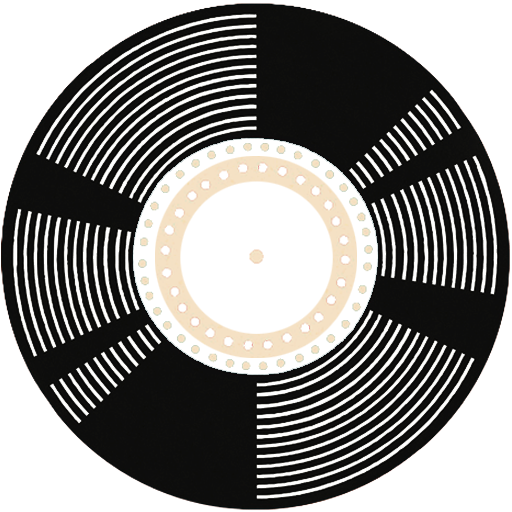
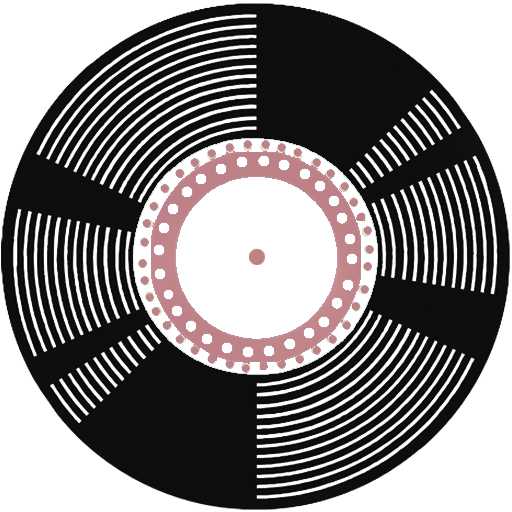
more pretty

Changed region(s): [[0.25, 0.25, 0.75, 0.75], [0.4688, 0.4688, 0.5312, 0.5312]]

diff --git a/display_manager.py b/display_manager.py
@@ -52,11 +52,15 @@ class DisplayManager:
         canvas = Image.alpha_composite(canvas, overlay)
         canvas = canvas.convert("RGB")
 
+        draw = ImageDraw.Draw(canvas)  # recreate draw on the new canvas
+
         ic_color = random.choice(pallette)
         ic_radius = 40
 
         oc_color = random.choice(pallette)
         oc_radius = 62
+
+        # ~~~~~~~~~~~~~~ Vinyl ~~~~~~~~~~~~~~
 
         vinyl_center_x = 333
         vinyl_center_y = self.height // 2
@@ -71,6 +75,11 @@ class DisplayManager:
              vinyl_center_x + ic_radius, vinyl_center_y + ic_radius),
             fill=ic_color)
 
+        draw.ellipse(
+            (vinyl_center_x - 62, vinyl_center_y - 62,
+             vinyl_center_x + 62, vinyl_center_y + 62),
+            fill="white")
+
         vinyl = Image.open("vinyl.png").resize((262, 262)).convert("RGBA")
         vinyl = vinyl.rotate(random.randint(0, 360))
         vinyl_coords = (vinyl_center_x - 131, vinyl_center_y - 131)
@@ -78,19 +87,20 @@ class DisplayManager:
         # ~~~~~~~~~~~~~~ Vinyl ~~~~~~~~~~~~~~
 
         # ~~~~~~~~~~~~~~ Artist ~~~~~~~~~~~~~~
-        artist_art = self.fetch_art(track.artist_art_url).resize((96, 96))
-        artist_mask = Image.new("L", (96, 96), 0)
-        ImageDraw.Draw(artist_mask).ellipse((0, 0, 96, 96), fill=255)
-        artist_art = ImageOps.fit(artist_art, (96, 96), centering=(0.5, 0.5))
+        artist_art = self.fetch_art(track.artist_art_url).resize((86, 86))
+        artist_mask = Image.new("L", (86, 86), 0)
+        ImageDraw.Draw(artist_mask).ellipse((0, 0, 86, 86), fill=255)
+        artist_art = ImageOps.fit(artist_art, (86, 86), centering=(0.5, 0.5))
 
         canvas.paste(im=artist_art,
-                     box=(vinyl_center_x - 32, vinyl_center_y - 32),
+                     box=(vinyl_center_x - 43, vinyl_center_y - 43),
                      mask=artist_mask)
 
-        outline_box = (vinyl_center_x - 32,
-                       vinyl_center_y - 32,
-                       vinyl_center_x + 32,
-                       vinyl_center_y + 32)
+        outline_box = (vinyl_center_x - 43,
+                       vinyl_center_y - 43,
+                       vinyl_center_x + 43,
+                       vinyl_center_y + 43)
+
         draw.ellipse(outline_box, outline="gray", width=1)
         # ~~~~~~~~~~~~~~ Artist ~~~~~~~~~~~~~~
 
